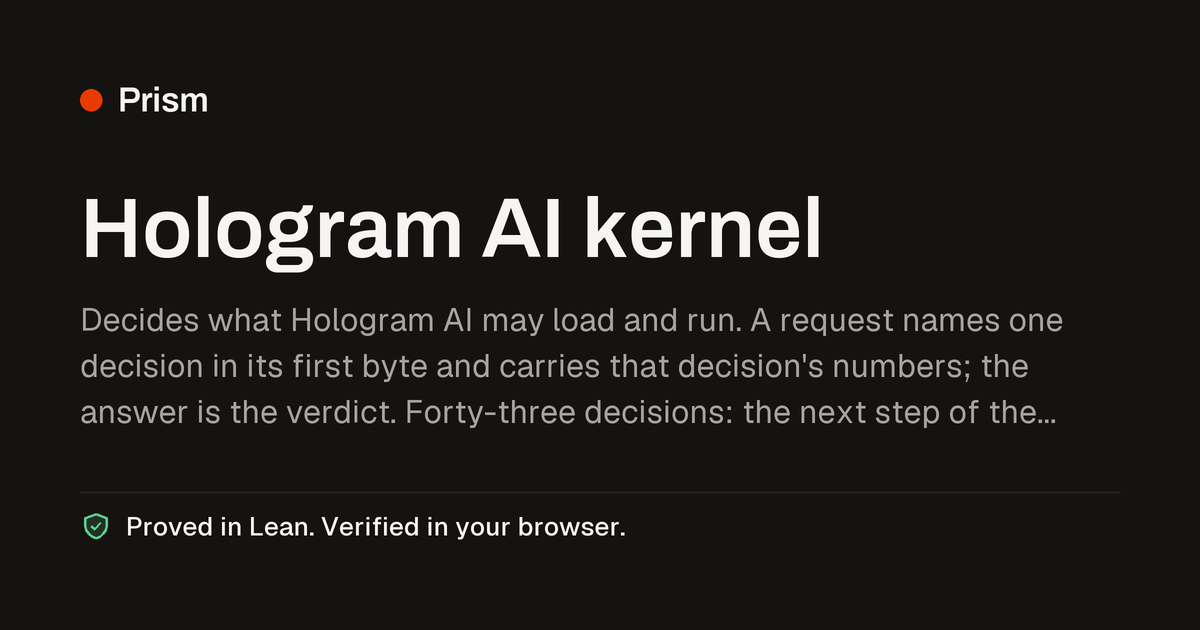
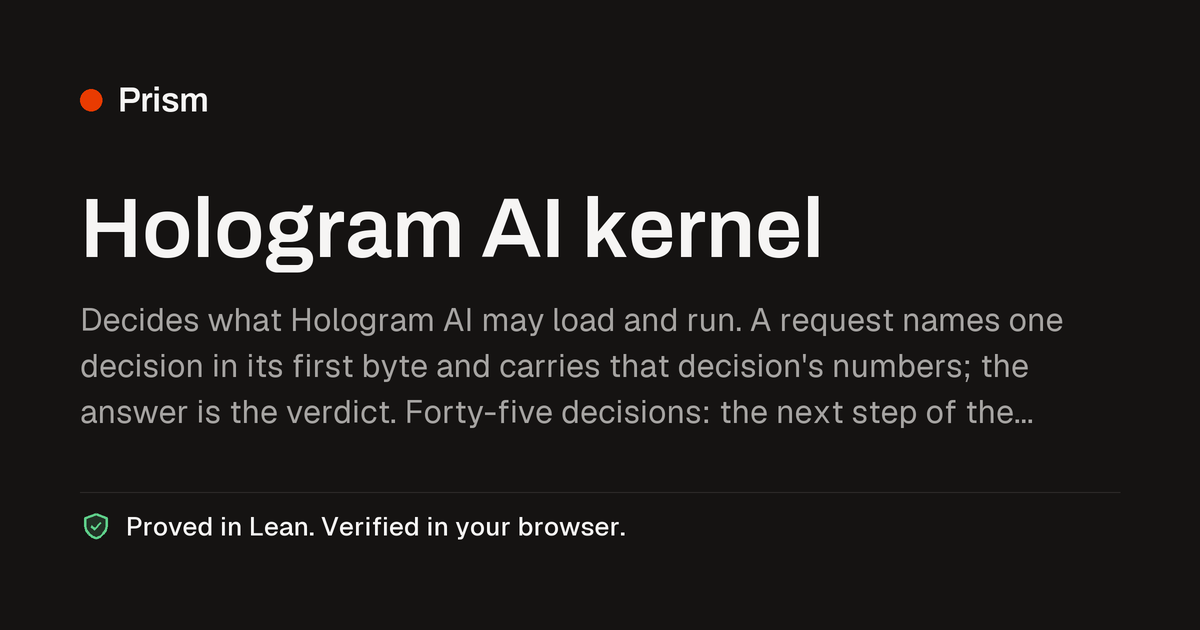
Name a model's chat template by its BLAKE3 in the kernel, and refuse any other by name (KN-46, decision 45)
The templates of Qwen2.5-1.5B-Instruct, Qwen3-0.6B and Llama 3.2 1B Instruct, as their exports carry them at the hub's pinned revisions, are named qwen2.5, qwen3 and llama3.2; any other is refused. Proved on the hosted verifier; the claims replay it in the guest; the engine page asks it and stops by name on any other template.

Changed region(s): [[0.4008, 0.6333, 0.8633, 0.6937]]

diff --git a/site/card.html b/site/card.html
@@ -47,6 +47,7 @@
     <option value="41">42. Round check</option>
     <option value="42">43. Square root</option>
     <option value="43">44. Rounded quotient</option>
+    <option value="44">45. Chat template</option>
   </select>
   <p id="asks" class="asks">May this step be taken, and where does it lead?</p>
   <div id="fields" class="fields">
@@ -2864,6 +2865,39 @@
       "module": "Divide",
       "name": "Rounded quotient",
       "tag": 44
+    },
+    {
+      "asks": "Which chat template is this, by the BLAKE3 of its text?",
+      "fields": [
+        {
+          "at": 1,
+          "name": "The template's BLAKE3, bytes 1 to 8",
+          "value": "8279920892041357147",
+          "width": 8
+        },
+        {
+          "at": 9,
+          "name": "The template's BLAKE3, bytes 9 to 16",
+          "value": "1773128108353419947",
+          "width": 8
+        },
+        {
+          "at": 17,
+          "name": "The template's BLAKE3, bytes 17 to 24",
+          "value": "11653179235714034099",
+          "width": 8
+        },
+        {
+          "at": 25,
+          "name": "The template's BLAKE3, bytes 25 to 32",
+          "value": "12784695345153184910",
+          "width": 8
+        }
+      ],
+      "length": 33,
+      "module": "Template",
+      "name": "Chat template",
+      "tag": 45
     }
   ],
   "request": 81

diff --git a/app/src/Kernel.lex.tex b/app/src/Kernel.lex.tex
@@ -48,13 +48,14 @@
 \importmodule{Kernel.Round}
 \importmodule{Kernel.Root}
 \importmodule{Kernel.Divide}
+\importmodule{Kernel.Template}
 \title{Text application model}
 \begin{semanticmodule}
 definition{
   name: route,
   parameters: [tag : Nat, value : Bytes],
   result: Bytes,
-  body: (if (tag <=? 17) then (if (tag =? 5) then (Kernel.Admission::admissionAnswer value) else (if (tag =? 6) then (Kernel.Range::rangeAnswer value) else (if (tag =? 8) then (Kernel.Bucket::bucketAnswer value) else (if (tag =? 9) then (Kernel.Generation::generationAnswer value) else (if (tag =? 2) then (Kernel.Preflight::preflightAnswer value) else (if (tag =? 4) then (Kernel.Tier::tierAnswer value) else (if (tag =? 11) then (Kernel.Shape::shapeAnswer value) else (if (tag =? 7) then (Kernel.Trim::trimAnswer value) else (if (tag =? 3) then (Kernel.Plan::planAnswer value) else (if (tag =? 1) then (Kernel.Journey::journeyAnswer value) else (if (tag =? 10) then (Kernel.Operators::operatorAnswer value) else (if (tag =? 12) then (Kernel.Backend::backendAnswer value) else (if (tag =? 13) then (Kernel.Blocks::blockAnswer value) else (if (tag =? 14) then (Kernel.Pick::pickAnswer value) else (if (tag =? 15) then (Kernel.Penalty::penaltyAnswer value) else (if (tag =? 16) then (Kernel.Speculate::speculateAnswer value) else (if (tag =? 17) then (Kernel.Quant::quantAnswer value) else (prim utf8_encode "invalid request" : Bytes)))))))))))))))))) else (if (tag =? 18) then (Kernel.Opnames::opnameAnswer value) else (if (tag =? 19) then (Kernel.Family::familyAnswer value) else (if (tag =? 20) then (Kernel.Nbits::nbitsAnswer value) else (if (tag =? 21) then (Kernel.Precision::precisionAnswer value) else (if (tag =? 22) then (Kernel.Device::deviceAnswer value) else (if (tag =? 23) then (Kernel.Chunks::chunkAnswer value) else (if (tag =? 24) then (Kernel.Source::sourceAnswer value) else (if (tag =? 25) then (Kernel.Stop::stopAnswer value) else (if (tag =? 26) then (Kernel.Evict::evictAnswer value) else (if (tag =? 27) then (Kernel.Reuse::reuseAnswer value) else (if (tag =? 28) then (Kernel.Manifest::manifestAnswer value) else (if (tag =? 29) then (Kernel.Exact::exactAnswer value) else (if (tag =? 30) then (Kernel.Determinism::classAnswer value) else (if (tag =? 31) then (Kernel.Receipt::receiptAnswer value) else (if (tag =? 32) then (Kernel.Probe::probeAnswer value) else (if (tag =? 33) then (Kernel.Share::shareAnswer value) else (if (tag =? 34) then (Kernel.Block::blockCheckAnswer value) else (if (tag =? 35) then (Kernel.Address::addressAnswer value) else (if (tag =? 36) then (Kernel.Integer::integerAnswer value) else (if (tag =? 37) then (Kernel.Scale::scaleAnswer value) else (if (tag =? 38) then (Kernel.Codec::codecAnswer value) else (if (tag =? 39) then (Kernel.Narrow::narrowAnswer value) else (if (tag =? 40) then (Kernel.Rows::rowsAnswer value) else (if (tag =? 41) then (Kernel.Requant::rqAnswer value) else (if (tag =? 42) then (Kernel.Round::roundAnswer value) else (if (tag =? 43) then (Kernel.Root::rootAnswer value) else (if (tag =? 44) then (Kernel.Divide::divideAnswer value) else (prim utf8_encode "invalid request" : Bytes))))))))))))))))))))))))))))),
+  body: (if (tag <=? 17) then (if (tag =? 5) then (Kernel.Admission::admissionAnswer value) else (if (tag =? 6) then (Kernel.Range::rangeAnswer value) else (if (tag =? 8) then (Kernel.Bucket::bucketAnswer value) else (if (tag =? 9) then (Kernel.Generation::generationAnswer value) else (if (tag =? 2) then (Kernel.Preflight::preflightAnswer value) else (if (tag =? 4) then (Kernel.Tier::tierAnswer value) else (if (tag =? 11) then (Kernel.Shape::shapeAnswer value) else (if (tag =? 7) then (Kernel.Trim::trimAnswer value) else (if (tag =? 3) then (Kernel.Plan::planAnswer value) else (if (tag =? 1) then (Kernel.Journey::journeyAnswer value) else (if (tag =? 10) then (Kernel.Operators::operatorAnswer value) else (if (tag =? 12) then (Kernel.Backend::backendAnswer value) else (if (tag =? 13) then (Kernel.Blocks::blockAnswer value) else (if (tag =? 14) then (Kernel.Pick::pickAnswer value) else (if (tag =? 15) then (Kernel.Penalty::penaltyAnswer value) else (if (tag =? 16) then (Kernel.Speculate::speculateAnswer value) else (if (tag =? 17) then (Kernel.Quant::quantAnswer value) else (prim utf8_encode "invalid request" : Bytes)))))))))))))))))) else (if (tag =? 18) then (Kernel.Opnames::opnameAnswer value) else (if (tag =? 19) then (Kernel.Family::familyAnswer value) else (if (tag =? 20) then (Kernel.Nbits::nbitsAnswer value) else (if (tag =? 21) then (Kernel.Precision::precisionAnswer value) else (if (tag =? 22) then (Kernel.Device::deviceAnswer value) else (if (tag =? 23) then (Kernel.Chunks::chunkAnswer value) else (if (tag =? 24) then (Kernel.Source::sourceAnswer value) else (if (tag =? 25) then (Kernel.Stop::stopAnswer value) else (if (tag =? 26) then (Kernel.Evict::evictAnswer value) else (if (tag =? 27) then (Kernel.Reuse::reuseAnswer value) else (if (tag =? 28) then (Kernel.Manifest::manifestAnswer value) else (if (tag =? 29) then (Kernel.Exact::exactAnswer value) else (if (tag =? 30) then (Kernel.Determinism::classAnswer value) else (if (tag =? 31) then (Kernel.Receipt::receiptAnswer value) else (if (tag =? 32) then (Kernel.Probe::probeAnswer value) else (if (tag =? 33) then (Kernel.Share::shareAnswer value) else (if (tag =? 34) then (Kernel.Block::blockCheckAnswer value) else (if (tag =? 35) then (Kernel.Address::addressAnswer value) else (if (tag =? 36) then (Kernel.Integer::integerAnswer value) else (if (tag =? 37) then (Kernel.Scale::scaleAnswer value) else (if (tag =? 38) then (Kernel.Codec::codecAnswer value) else (if (tag =? 39) then (Kernel.Narrow::narrowAnswer value) else (if (tag =? 40) then (Kernel.Rows::rowsAnswer value) else (if (tag =? 41) then (Kernel.Requant::rqAnswer value) else (if (tag =? 42) then (Kernel.Round::roundAnswer value) else (if (tag =? 43) then (Kernel.Root::rootAnswer value) else (if (tag =? 44) then (Kernel.Divide::divideAnswer value) else (if (tag =? 45) then (Kernel.Template::templateAnswer value) else (prim utf8_encode "invalid request" : Bytes)))))))))))))))))))))))))))))),
   axioms: [Quot.sound, propext]
 }
 

diff --git a/app/src/Proofs/Template.lex.tex b/app/src/Proofs/Template.lex.tex
@@ -1,0 +1,46 @@
+\begin{lexlean}{Proofs.Template}
+\useglossary{lexlean.std.bool@1.2.0}
+\useglossary{lexlean.std.nat@1.2.0}
+\useglossary{prism.arch@1.0.0}
+\importmodule{Kernel.Template}
+\title{Bounded byte buffer}
+\begin{semanticmodule}
+theorem{
+  name: template_qwen25_decides,
+  parameters: [a : Nat, b : Nat, c : Nat, d : Nat],
+  statement: (((Kernel.Template::templateCode a b c d) = 1) <-> ((((a = 8279920892041357147) /\ (b = 1773128108353419947)) /\ (c = 11653179235714034099)) /\ (d = 12784695345153184910))),
+  proof: linear_arithmetic{
+    definitions: [Kernel.Template::templateCode, Kernel.Template::templateIs]
+  },
+  axioms: [Classical.choice, Quot.sound, propext]
+}
+
+theorem{
+  name: template_qwen3_decides,
+  parameters: [a : Nat, b : Nat, c : Nat, d : Nat],
+  statement: (((Kernel.Template::templateCode a b c d) = 2) <-> ((((a = 5043451083563981477) /\ (b = 8438563855072365186)) /\ (c = 9276823912147443683)) /\ (d = 9407911508815075403))),
+  proof: linear_arithmetic{
+    definitions: [Kernel.Template::templateCode, Kernel.Template::templateIs]
+  },
+  axioms: [Classical.choice, Quot.sound, propext]
+}
+
+theorem{
+  name: template_llama32_decides,
+  parameters: [a : Nat, b : Nat, c : Nat, d : Nat],
+  statement: (((Kernel.Template::templateCode a b c d) = 3) <-> ((((a = 15723989467465989188) /\ (b = 4968833967170122917)) /\ (c = 9281937141963328179)) /\ (d = 6782964158007752886))),
+  proof: linear_arithmetic{
+    definitions: [Kernel.Template::templateCode, Kernel.Template::templateIs]
+  },
+  axioms: [Classical.choice, Quot.sound, propext]
+}
+
+theorem{
+  name: template_code_bounded,
+  parameters: [a : Nat, b : Nat, c : Nat, d : Nat],
+  statement: ((Kernel.Template::templateCode a b c d) <= 3),
+  proof: linear_arithmetic{definitions: [Kernel.Template::templateCode]},
+  axioms: [Quot.sound, propext]
+}
+\end{semanticmodule}
+\end{lexlean}

diff --git a/app/src/Kernel/Template.lex.tex b/app/src/Kernel/Template.lex.tex
@@ -1,0 +1,38 @@
+\begin{lexlean}{Kernel.Template}
+\useglossary{lexlean.std.bool@1.2.0}
+\useglossary{lexlean.std.nat@1.2.0}
+\useglossary{prism.arch@1.0.0}
+\importmodule{Foundation.Bytes}
+\importmodule{Kernel.Wire}
+\title{Bounded byte buffer}
+\begin{semanticmodule}
+definition{
+  name: templateIs,
+  parameters: [a : Nat, b : Nat, c : Nat, d : Nat, wa : Nat, wb : Nat, wc : Nat, wd : Nat],
+  result: Bool,
+  body: ((((a =? wa) && (b =? wb)) && (c =? wc)) && (d =? wd))
+}
+
+definition{
+  name: templateCode,
+  parameters: [a : Nat, b : Nat, c : Nat, d : Nat],
+  result: Nat,
+  body: (if (templateIs a b c d 8279920892041357147 1773128108353419947 11653179235714034099 12784695345153184910) then 1 else (if (templateIs a b c d 5043451083563981477 8438563855072365186 9276823912147443683 9407911508815075403) then 2 else (if (templateIs a b c d 15723989467465989188 4968833967170122917 9281937141963328179 6782964158007752886) then 3 else 0)))
+}
+
+definition{
+  name: templateText,
+  parameters: [code : Nat],
+  result: Bytes,
+  body: (if (code =? 1) then (prim utf8_encode "qwen2.5" : Bytes) else (if (code =? 2) then (prim utf8_encode "qwen3" : Bytes) else (if (code =? 3) then (prim utf8_encode "llama3.2" : Bytes) else (prim utf8_encode "refused: unknown template" : Bytes))))
+}
+
+definition{
+  name: templateAnswer,
+  parameters: [value : Bytes],
+  result: Bytes,
+  body: (if ((Foundation.Bytes::byteLength value) =? 33) then (templateText (templateCode (Kernel.Wire::fieldAt value 1 8) (Kernel.Wire::fieldAt value 9 8) (Kernel.Wire::fieldAt value 17 8) (Kernel.Wire::fieldAt value 25 8))) else (prim utf8_encode "invalid request" : Bytes)),
+  axioms: [Quot.sound, propext]
+}
+\end{semanticmodule}
+\end{lexlean}

diff --git a/crates/kernel-client/src/lib.rs b/crates/kernel-client/src/lib.rs
@@ -1509,3 +1509,46 @@ mod tests {
         assert_eq!(decimal(b"123456789012345678901"), None);
     }
 }
+
+/// Decision 45: whether a model's chat template is one the engine defines,
+/// named by the BLAKE3 of its text.
+pub mod template {
+    /// The kernel's verdict on a template.
+    #[derive(Clone, Copy, Debug, PartialEq, Eq)]
+    pub enum Verdict {
+        /// Qwen2.5-1.5B-Instruct's template.
+        Qwen25,
+        /// Qwen3-0.6B's template.
+        Qwen3,
+        /// Llama 3.2 1B Instruct's template.
+        Llama32,
+        /// A template the engine does not define, refused by name.
+        UnknownTemplate,
+        /// The kernel did not accept the request.
+        Invalid,
+        /// Text the kernel is not known to give.
+        Unrecognised,
+    }
+
+    /// The request for a template whose text has BLAKE3 `address`.
+    #[must_use]
+    pub fn request(address: &[u8; 32]) -> [u8; 33] {
+        let mut out = [0; 33];
+        out[0] = 45;
+        out[1..].copy_from_slice(address);
+        out
+    }
+
+    /// Read the kernel's answer.
+    #[must_use]
+    pub fn answer(text: &[u8]) -> Verdict {
+        match text {
+            b"qwen2.5" => Verdict::Qwen25,
+            b"qwen3" => Verdict::Qwen3,
+            b"llama3.2" => Verdict::Llama32,
+            b"refused: unknown template" => Verdict::UnknownTemplate,
+            b"invalid request" => Verdict::Invalid,
+            _ => Verdict::Unrecognised,
+        }
+    }
+}

diff --git a/CONFORMANCE.md b/CONFORMANCE.md
@@ -147,6 +147,7 @@ not forbid `unwrap`, `expect` and `panic!` (R5).
 | `KN-41` | `build` | Up to five inputs of one group are confirmed put on sixteen-bit codes exactly when the group's power of two is the largest that keeps its largest input within 32767, and each code is its input at that power rounded to the nearest, ties to even, so within half a step of it; an input far below the step is code zero |
 | `KN-43` | `build` | A claimed integer square root of a value below 2^62 is confirmed exactly when its square is at most the value and the next square is above it, so a norm divides by the value's one floor root |
 | `KN-44` | `build` | A claimed quotient of a value below 2^62 by a divisor below 2^31, rounded half to even to a code of at most 32767, is confirmed exactly when it passes KN-41's rounding rule with the divisor as the step, so a norm and a softmax divide by one rule |
+| `KN-46` | `build` | A model's chat template is one the engine defines exactly when the BLAKE3 of its text is Qwen2.5-1.5B-Instruct's, Qwen3-0.6B's or Llama 3.2 1B Instruct's, as their exports carry them at the hub's pinned revisions; decision 45 answers qwen2.5, qwen3 or llama3.2 for those three and refuses any other template by name, before anything is rendered with it |
 | `KN-45` | `build` | The engine session is a pure step over open, admit a page, prompt chunk, generate and close, ready to be the guest's root in the session world: a page not named by BLAKE3 fails the session, the session is ready only when the page admitted is the manifest's last, prompt chunks compose, a generate request with a floating-point stage fails the session, the position never passes the capacity, and an ended session stays ended |
 | `KN-37` | `build` | One group's sum times its IEEE half scale is confirmed exact exactly when the claimed sign and magnitude, in units of 2^-24, equal the product the kernel recomputes from the half's exponent and fraction, a zero product is never negative, and a scale that is an infinity or a NaN is answered not finite |
 | `KN-42` | `build` | A claimed binary32 is confirmed exact exactly when it is the bits the kernel rounds magnitude times 2 to the exponent to: the nearest, ties to even, from the leading bit, 24 bits or fewer below the normal range, infinity past the largest finite value, and zero for a zero magnitude |

diff --git a/KERNEL-VERIFICATION.md b/KERNEL-VERIFICATION.md
@@ -1334,3 +1334,41 @@ examples at the top of the 64-bit field.
 
 One gate here has not been shown to fail: no example has been planted with a
 wrong expected answer to confirm the replay rejects it.
+
+## KN-46, the chat template named by its BLAKE3
+
+Decided by Ilya on 2026-11-18: chat templates are defined and proved in
+LexLean, the subset the supported families use, and any other template is
+refused by name, with no Jinja library. Decision 45 is the first half: it names
+a model's template by the BLAKE3 of its text. A request is the tag and the 32
+bytes of the address, read as four 8-byte words; the answer is `qwen2.5`,
+`qwen3` or `llama3.2` for the templates of Qwen2.5-1.5B-Instruct, Qwen3-0.6B
+and Llama 3.2 1B Instruct, as their exports carry them in
+`tokenizer_config.json` at the hub's pinned revisions (`d54957e`, `79346d3`,
+`82ac693`), and `refused: unknown template` for any other. Those three texts
+are the ones recorded in `crates/conformance/tests/gpu/templates`; their
+BLAKE3 were taken again on 2026-11-18 from the files at those revisions and
+are equal.
+
+The engine page asks decision 45 for the template its model carries and stops
+by name on any other, before anything is rendered. Rendering each family's
+template from a LexLean definition is the second half (KN-47).
+
+### The proof gate
+
+Checked by the hosted LexLean verifier on 2026-11-18 (task-8, draft
+prism-app/7a9bad1f…), with `Kernel.Template`, its proofs and the modules they
+import: `template_qwen25_decides`, `template_qwen3_decides` and
+`template_llama32_decides` (a template is named a family exactly when the four
+words are that family's) and `template_code_bounded` (no other code is
+given), all verified. `lexlean fmt --check`: canonical.
+
+### The pinned test: `kernel_kn_46`
+
+| Planted defect | Result |
+| --- | --- |
+| one word of Qwen3's address one too high | rejected: `Qwen3-0.6B-ONNX.json: Kernel.Template does not list it` |
+| decision 45 not routed | rejected: `decision 45 must be routed to Kernel.Template::templateAnswer` |
+| no claim answered `refused: unknown template` | rejected: `no decision-45 claim is answered ...` |
+| none | passed |
+
